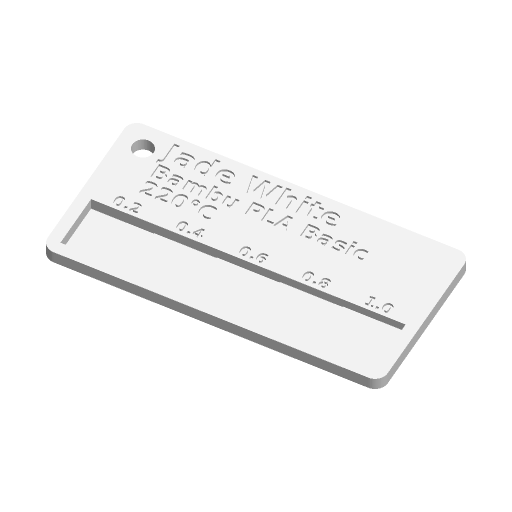
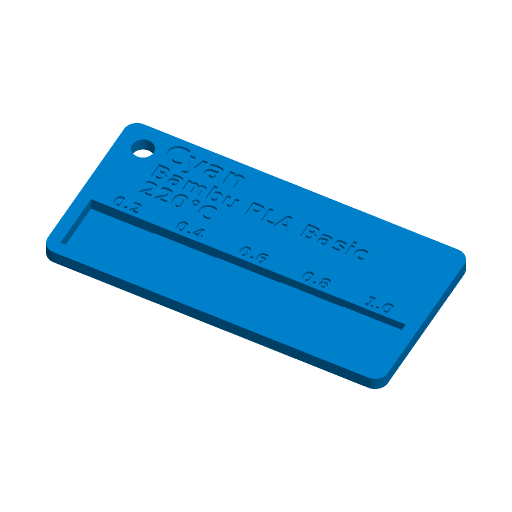
fix(models): filament-swatch defaults to a colour that shows the lettering
A white card with white debossed lettering was near invisible on the
catalogue thumbnail. Default to Bambu PLA Basic Cyan with white inlay text.

Claude-Session: https://claude.ai/code/session_01X17nidom5KxL41d2nZa3rs

Changed region(s): [[0.0625, 0.2188, 0.9375, 0.7812]]

diff --git a/models/filament-swatch/README.md b/models/filament-swatch/README.md
@@ -21,7 +21,7 @@ unchanged on MakerWorld and in ScadBuddy.
 |---|---|---|
 | `brand` | `Bambu` | Up to 16 characters. |
 | `material` | `PLA Basic` | Up to 16 characters. In landscape it shares a line with the brand. |
-| `color_name` | `Jade White` | Up to 20 characters. The top line, and the largest. |
+| `color_name` | `Cyan` | Up to 20 characters. The top line, and the largest. |
 | `temp` | `220°C` | Up to 10 characters. DejaVu has the degree sign; with a face that lacks it, write `220C`. |
 | `font` | `DejaVu Sans:style=Bold` | Typeface for all lettering. ScadBuddy fills this dropdown from the fonts installed in the container (`// font`). |
 
@@ -47,8 +47,8 @@ The window band is 34 % of the card height in landscape; the cards keep a
 
 | Parameter | Default | What it does |
 |---|---|---|
-| `swatch_color` | `#FFFFFF` | The card. Set it to the filament being catalogued. |
-| `text_color` | `#000000` | Lettering, inlay mode only. |
+| `swatch_color` | `#0086D6` (Bambu PLA Basic Cyan) | The card. Set it to the filament being catalogued. |
+| `text_color` | `#FFFFFF` | Lettering, inlay mode only. |
 
 ## Colours and extruders
 
